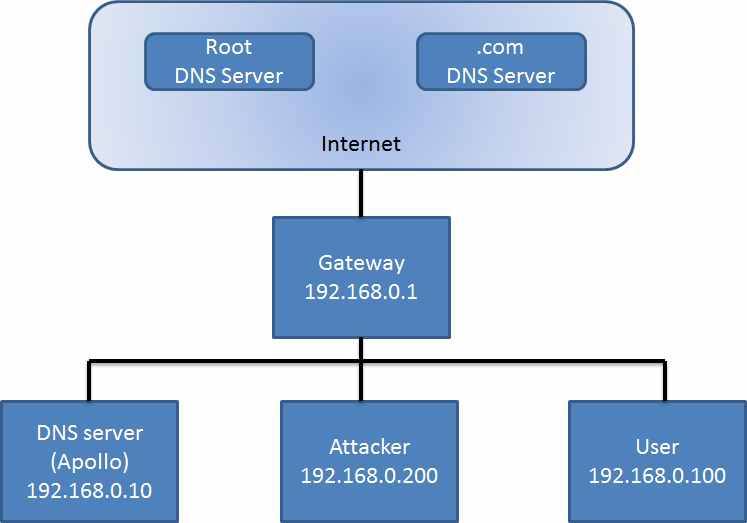
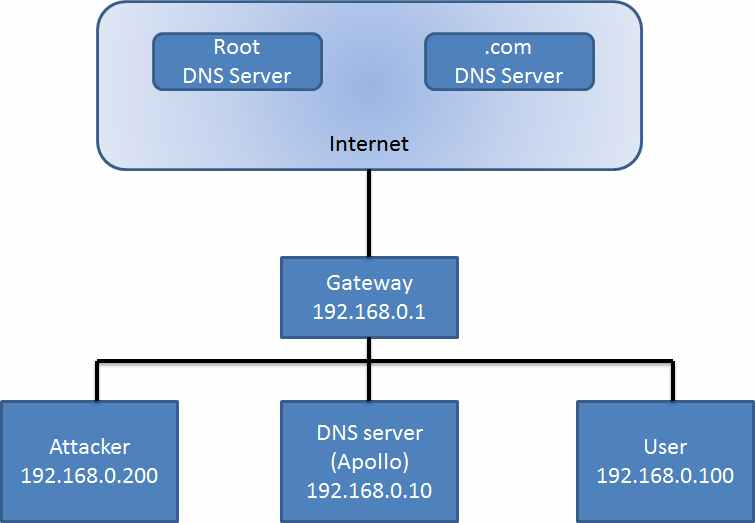
fix diagrams, clarify the spoofed dns response may fail due to race
git-svn-id: https://tor.ern.nps.edu/svn/proj/labtainer/trunk@1234 ed162e55-3153-4343-a18d-e086fa355ed4

diff --git a/labs/local-dns/docs/DNS_Local.tex b/labs/local-dns/docs/DNS_Local.tex
@@ -52,7 +52,7 @@ be run on any Linux host that supports Docker containers.
 
 From your labtainer-student directory start the lab using:
 \begin{verbatim}
-    start.py arp-spoof
+    start.py local-dns
 \end{verbatim}
 Links to this lab manual and to an empty lab report will be displayed.  If you create your lab report on a separate system, 
 be sure to copy it back to the specified location on your Linux system.
@@ -63,7 +63,7 @@ Figure~\ref{fig:dns:environment}.
 
 \begin{figure}[!htb]
 \centering
-\includegraphics*[viewport=50 120 750 520, width=0.9\textwidth]{Figs/topology.pdf}
+\includegraphics*[ width=0.9\textwidth,natwidth=621,natheight=403]{Figs/topology.jpg}
 \caption{The Lab Environment Setup} 
 \label{fig:dns:environment}
 \end{figure}
@@ -358,7 +358,7 @@ the IP address of your target. For example,
 in the scenario showing below, you can use {\tt "src host 192.168.0.100"}.
 \begin{figure}[!htb]
 \centering
-\includegraphics*[ width=0.9\textwidth]{Figs/DNS_Local_flow1.pdf}
+\includegraphics*[ width=0.9\textwidth,natwidth=621,natheight=403]{Figs/flow1.jpg}
 \caption{Directly Spoof response to user flow} 
 \label{fig:flow1}
 \end{figure}
@@ -366,7 +366,11 @@ in the scenario showing below, you can use {\tt "src host 192.168.0.100"}.
 Attempt this attack and use Wireshark on the attacker to observe the traffic. Note
 that the legitemate DNS reply may arrive at the user's computer prior to the bogus
 one generated by Netwox.  This will cause your attack to fail. Think about stratgies
-an attacker may employ to slow down responses from the DNS server.
+an attacker may employ to slow down responses from the DNS server. 
+
+To complete this task, you are not required to succeed in the attack, but you are
+required to save a PCAP file on your attacker home directory named "spoof.pcapng".
+This PCAP file should include your spoofed DNS response.
  
 \subsection{Task 3: DNS Server Cache Poisoning}
 
@@ -401,7 +405,7 @@ This attack is called {\em DNS
 cache poisoning}.  The following diagram (Figure~\ref{fig:flow2}) illustrates this attack.
 \begin{figure}[!htb]
 \centering
-\includegraphics*[ width=0.9\textwidth]{Figs/DNS_Local_flow2.pdf}
+\includegraphics*[ width=0.9\textwidth,natwidth=621,natheight=403]{Figs/flow2.jpg}
 \caption{DNS cache posioning flow} 
 \label{fig:flow2}
 \end{figure}
@@ -453,13 +457,20 @@ are interested in taking on such a challenge, you can
 try our ``Remote DNS Attack Lab''.
 
 
-
-
 \section{Submission}
 
 Students need to submit a detailed lab report to describe what they have done and
-what they have observed. Report should include the evidence to support 
-the observations. Evidences include packet traces, screendumps, etc.
+what they have observed. Report should include evidence to support 
+the observations. Evidence include packet traces, screendumps, etc.
+If you edited your lab report on a separate system, copy it back to the Linux system at the location
+identified when you started the lab, and do this before running the stop.py command.
+After finishing the lab, go to the terminal on your Linux system that was used to start the lab and type:
+\begin{verbatim}
+    stop.py local-dns
+\end{verbatim}
+When you stop the lab, the system will display a path to the zipped lab results on your Linux system.  Provide that file to
+your instructor, e.g., via the Sakai site.
+
  
 \begin{thebibliography}{10}
 

diff --git a/labs/local-dns/docs/header.tex b/labs/local-dns/docs/header.tex
@@ -99,6 +99,10 @@
       The development of this document was partially funded by
       the National Science Foundation's Course, Curriculum, and Laboratory
       Improvement (CCLI) program under Award No. 0618680 and 0231122.
+      This lab was altered and imported into the Labtainer framework by the Naval Postgraduate
+      School, Center for Cybersecurity and Cyber Operations under National Science
+      Foundation Aware No. 1438893.
+
       Permission is granted to copy, distribute and/or modify this document
       under the terms of the GNU Free Documentation License, Version 1.2
       or any later version published by the Free Software Foundation.
